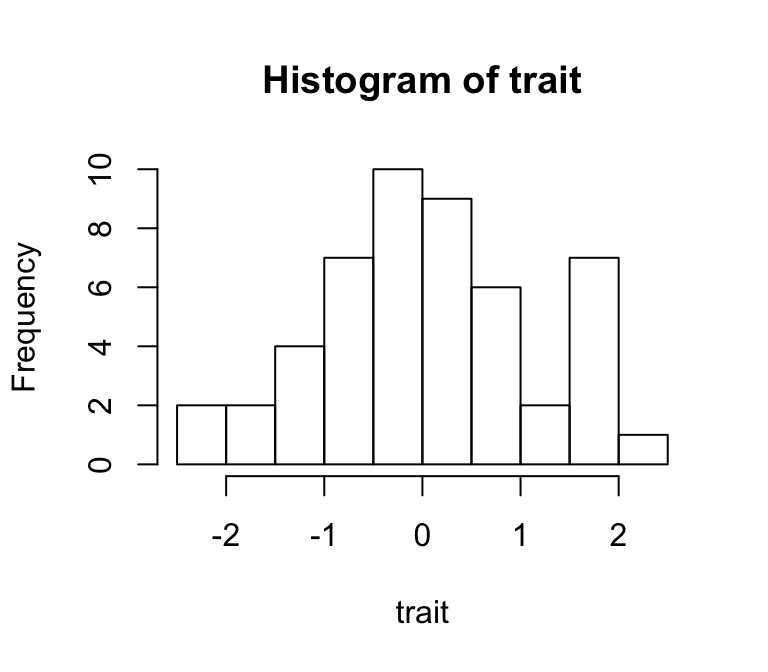
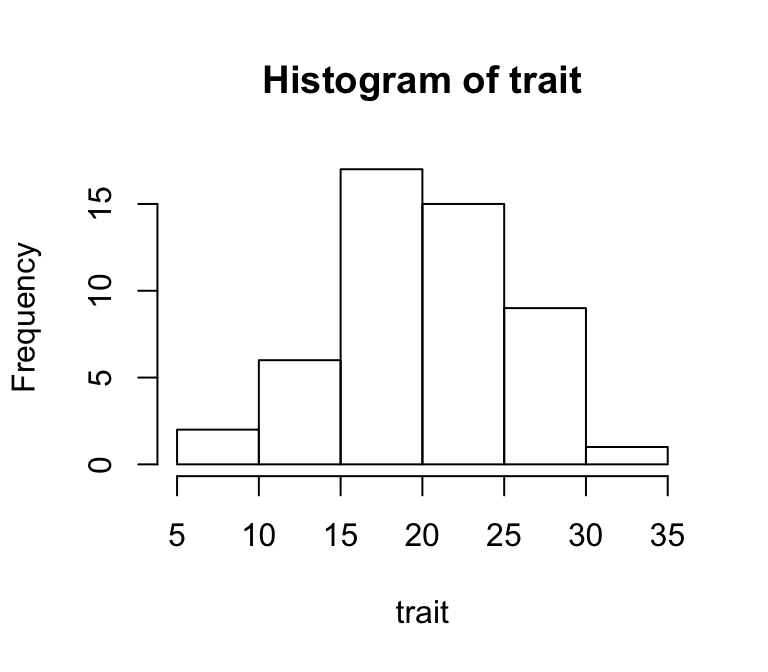
simulations page

diff --git a/09_simulations.html b/09_simulations.html
@@ -217,33 +217,53 @@ $(document).ready(function () {
 <p>Here, we will simulate some social networks just to get a feel for how to create networks based on simple rules.</p>
 <pre class="r"><code>library(asnipe)
 library(igraph)</code></pre>
+<p><br></p>
 <div id="flock-network-with-size-related-variation-in-gregariousness" class="section level2">
 <h2>1. Flock network with size-related variation in gregariousness</h2>
-<p>Let’s imagine a scenario in which individuals vary in how often they join groups (e.g., flocks).</p>
-<p>In addition, let’s imagine that smaller individuals tend to join flocks more often than larger individuals.</p>
-<p>In this fictitious scenario, will we find correlation between size and centrality?</p>
-<p>Let’s start by setting up a population of 50 individuals with a normalized measure of size (i.e., size is going to be an index with a mean of 0 and standard deviation of 1).</p>
-<pre class="r"><code>n=50
-trait=sort(rnorm(n,mean=0))
-hist(trait)</code></pre>
-<p><img src="09_simulations_files/figure-html/unnamed-chunk-2-1.png" width="384" /></p>
-<pre class="r"><code>n.flocks=sort(rpois(n, lambda=5))
-f=length(n.flocks*2)</code></pre>
-<pre class="r"><code>ibg=matrix(nrow=n, ncol=f)
+<p>Let’s imagine a scenario in which individuals vary in how often they join groups (e.g., flocks). In addition, let’s imagine that individuals also vary in a trait (e.g., body size) that correlates with gregariousness–the tendency to join flocks. In this fictitious scenario, will we find correlation between the trait and centrality?</p>
+<p>Let’s start by setting up a population of 50 individuals with a trait distributed normally (i.e., mean of 20 and standard deviation of 5). We can use the <code>rnorm()</code> function to generate these random values</p>
+<p>Note that we are going to sort the sizes so that the largest individual is listed first.</p>
+<pre class="r"><code>set.seed(2)
+n=50
+trait=sort(rnorm(n,mean=20, sd=5), decreasing = T) </code></pre>
+<p>Now, we’ll assign gregariousness to individuals. This will be defined as an individual’s probability of joining any given flock. This value, <span class="math inline">\(p\)</span>, will range from 0.01 to 0.2, and will follow a uniform distribution. Again, we will sort this vector. Then, the trait and gregariousness will be correlated</p>
+<pre class="r"><code>p=sort(runif(n, min=0.01, max=0.1)) #gregariousness
+
+plot(trait, p, ylab=&quot;Gregariousness&quot;, xlab=&quot;Trait Value&quot;) #see that gregariousness and trait are correlated</code></pre>
+<p><img src="09_simulations_files/figure-html/unnamed-chunk-3-1.png" width="384" /></p>
+<p>Ok, now let’s simulate some flock observations. First, we’ll choose how many flocks to observe. Totally arbitrarily, let’s just say we’ll observe 100 flocks.</p>
+<pre class="r"><code>f=100</code></pre>
+<p>Then, we’ll implement a simulation that will ultimately generate an individual-by-group matrix, whose dimensions will be 50 rows x 100 columns. The simulation will go as follows: For each cell, the probability that the individual (rows) is found in that flock (column) depends on that individual’s gregariousness value, <span class="math inline">\(p\)</span></p>
+<p>We will first create a matrix of 0s, then fill in 1s using a loop:</p>
+<pre class="r"><code>ibg=matrix(0,nrow=n, ncol=f)
 
 for(i in 1:n){
-  ibg[i,sample(1:f, n.flocks[i], replace=F)]=1
-}
-ibg[is.na(ibg)]=0
+  for (j in 1:f){
+  ibg[i,j]=sample(c(1,0), 1, prob=c(p[i], 1-p[i]))
+  }
+}</code></pre>
+<p>We will then make the network using the <code>get_network()</code> function from <code>asnipe</code> to create the adjacency matrix and the <code>graph_from_adjacency_matrix()</code> function from <code>igraph</code>.</p>
+<pre class="r"><code>adj=get_network(t(ibg), data_format=&quot;GBI&quot;, association_index=&quot;SRI&quot;)
 
-
-adj=get_network(t(ibg), data_format=&quot;GBI&quot;, association_index=&quot;SRI&quot;)</code></pre>
-<pre><code>## Generating  50  x  50  matrix</code></pre>
-<pre class="r"><code>g=graph_from_adjacency_matrix(adj, &quot;undirected&quot;, weighted=T)
-plot(g,vertex.size=trait+abs(min(trait))*5, vertex.label=&quot;&quot;)</code></pre>
-<p><img src="09_simulations_files/figure-html/unnamed-chunk-4-1.png" width="384" /></p>
-<pre class="r"><code>plot(trait, degree(g))</code></pre>
-<p><img src="09_simulations_files/figure-html/unnamed-chunk-5-1.png" width="384" /></p>
+g=graph_from_adjacency_matrix(adj, &quot;undirected&quot;, weighted=T)</code></pre>
+<p>Let’s plot the resulting network, with node size proportional to the individual’s trait value.</p>
+<pre class="r"><code>plot(g,vertex.size=trait/2, vertex.label=&quot;&quot;, edge.width=E(g)$weight*5)</code></pre>
+<p><img src="09_simulations_files/figure-html/unnamed-chunk-7-1.png" width="480" /></p>
+<p>Now, let’s plot the relationship between trait value and the individual’s degree centrality.</p>
+<pre class="r"><code>plot(trait, degree(g), pch=19, col=&quot;tomato&quot;)</code></pre>
+<p><img src="09_simulations_files/figure-html/unnamed-chunk-8-1.png" width="480" /></p>
+<pre class="r"><code>cor.test(trait, degree(g))</code></pre>
+<pre><code>## 
+##  Pearson&#39;s product-moment correlation
+## 
+## data:  trait and degree(g)
+## t = -8.0451, df = 48, p-value = 1.883e-10
+## alternative hypothesis: true correlation is not equal to 0
+## 95 percent confidence interval:
+##  -0.8556276 -0.6075387
+## sample estimates:
+##        cor 
+## -0.7577462</code></pre>
 </div>
 
 
